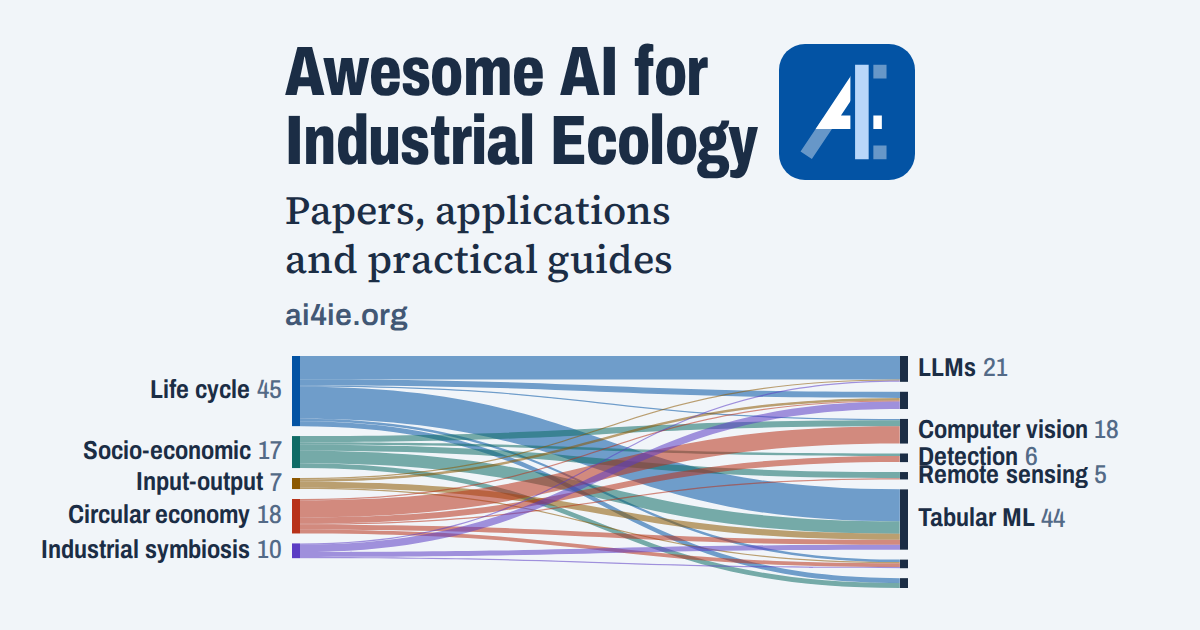
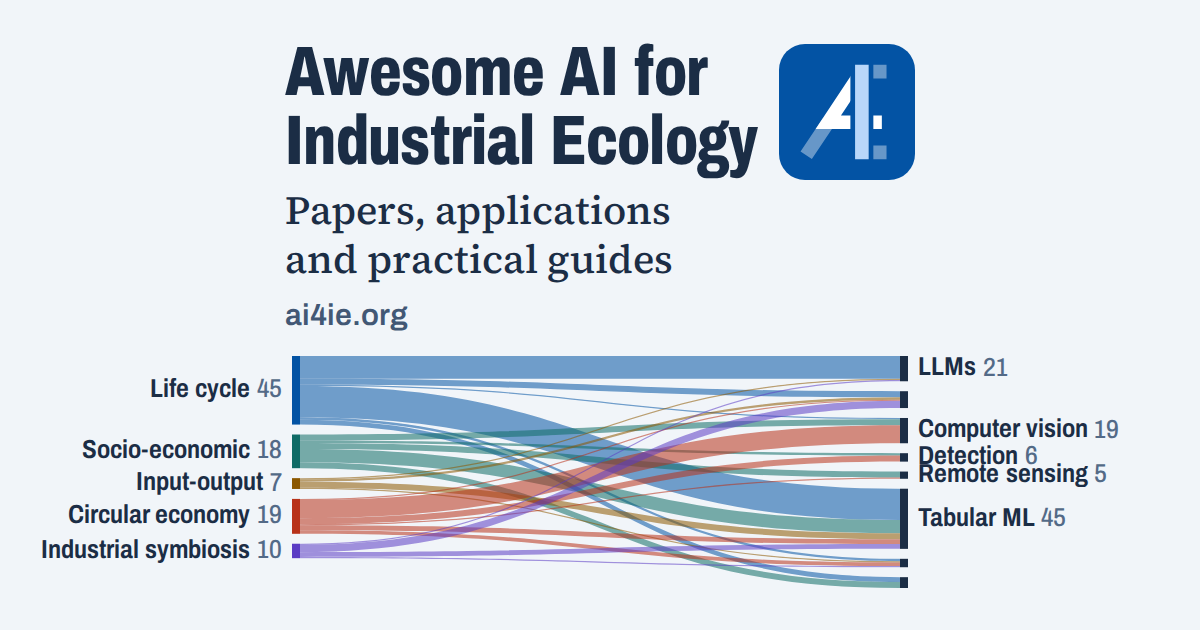
feat(home): fly the header wordmark's letters into the title
The favicon tile after the home title read as an awkward add-on, and its ink-in
competed with the Fig. 1 pour. The title spells out AI4IE, so the entrance now
uses that.

- On the first home visit in a tab session, the header wordmark's A, I, 4, I
  and E fly onto the title's "AI", "for" and the initials of "Industrial
  Ecology", measured live from both, so desktop and phone match. The rest of
  the title fades in around them and the header mark fades back, in 1.2 s.
- An inline script after the title hides its parts before the first paint and
  shows them after 2 s if the hand-off script never runs. Reduced motion, a
  repeat visit or blocked storage shows the title at once.
- Removed the title's end-mark tile, its stroke animation and hover replay.
  The colophon keeps the mark.
- The social card renders with reduced motion; og.png carries the current
  counts.

diff --git a/src/styles/custom.css b/src/styles/custom.css
@@ -582,98 +582,17 @@ starlight-menu-button button {
   font-size: clamp(2.5rem, 1.5rem + 3.4vw, 4.5rem);
   margin: 0;
 }
-/* Cap height of the narrow Archivo title, sitting on its baseline. */
-.cover-endmark {
+/* The title's acronym hand-off (script in Hero.astro). A key is an inline block, so it can
+   move; its word stays on one line. */
+.cover .ac-word {
+  white-space: nowrap;
+}
+.cover .ac {
   display: inline-block;
-  width: 0.7em;
-  height: 0.7em;
-  vertical-align: baseline;
+  transform-origin: left center;
 }
-/* On load the tile lands, then its strokes ink in as a draftsman would draw the mark:
-   the 4, its stem (the I), and last the faded A leg and E arms. It ends with the Fig. 1
-   bands, as part of the one entrance. The paths follow public/favicon.svg's order:
-   faded strokes, the 4, the stem. Pointing at the tile replays the inking, faster and
-   over a ghost of the mark (script in Hero.astro). The dash gap is three path lengths,
-   so an undrawn stroke leaves no sliver at either end. */
-.endmark-ghost {
+.ac-run .cover :is(.ac, .ac-rest) {
   opacity: 0;
-}
-@media (prefers-reduced-motion: no-preference) {
-  .cover-endmark rect {
-    transform-box: fill-box;
-    transform-origin: center;
-    animation: endmark-land 0.3s cubic-bezier(0.16, 1, 0.3, 1) 0.1s backwards;
-  }
-  .endmark-ink path {
-    stroke-dasharray: 1 3;
-    animation: endmark-ink 0.3s cubic-bezier(0.65, 0, 0.35, 1) backwards;
-  }
-  .endmark-ink path:nth-child(2) {
-    animation-delay: 0.25s;
-  }
-  .endmark-ink path:nth-child(3) {
-    animation-delay: 0.45s;
-  }
-  .endmark-ink path:nth-child(1) {
-    animation-delay: 0.6s;
-  }
-  .reink-a .endmark-ink path {
-    animation-name: endmark-ink-a;
-  }
-  .reink-b .endmark-ink path {
-    animation-name: endmark-ink-b;
-  }
-  .cover-endmark:is(.reink-a, .reink-b) .endmark-ink path {
-    animation-duration: 0.2s;
-  }
-  .cover-endmark:is(.reink-a, .reink-b) .endmark-ink path:nth-child(2) {
-    animation-delay: 0s;
-  }
-  .cover-endmark:is(.reink-a, .reink-b) .endmark-ink path:nth-child(3) {
-    animation-delay: 0.15s;
-  }
-  .cover-endmark:is(.reink-a, .reink-b) .endmark-ink path:nth-child(1) {
-    animation-delay: 0.3s;
-  }
-  .reink-a .endmark-ghost {
-    animation: endmark-ghost-a 0.5s linear;
-  }
-  .reink-b .endmark-ghost {
-    animation: endmark-ghost-b 0.5s linear;
-  }
-}
-@keyframes endmark-land {
-  from {
-    opacity: 0;
-    transform: scale(0.8);
-  }
-}
-@keyframes endmark-ink {
-  from {
-    stroke-dashoffset: 1.01;
-  }
-}
-@keyframes endmark-ink-a {
-  from {
-    stroke-dashoffset: 1.01;
-  }
-}
-@keyframes endmark-ink-b {
-  from {
-    stroke-dashoffset: 1.01;
-  }
-}
-@keyframes endmark-ghost-a {
-  from,
-  80% {
-    opacity: 0.35;
-  }
-}
-@keyframes endmark-ghost-b {
-  from,
-  80% {
-    opacity: 0.35;
-  }
 }
 .cover-tagline {
   margin: 0;

diff --git a/DESIGN.md b/DESIGN.md
@@ -66,10 +66,7 @@ The mark is an Æ with a 4 drawn inside it ([`Glyph.astro`](src/components/Glyph
 sits outside the six inks: on the page it is neutral ink, with the 4 at full strength and
 the A's leg and the E's arms faded to grey. The stem is the I of AI4IE, so it takes a lighter
 tint; the large mark (the 404 plate, the card) also cuts a hairline gap beside it. Cobalt is ink 1, so the mark is cobalt only off
-the page (the favicon and the README), with one exception: the home title ends on the
-favicon tile as its end mark, at cap height, hidden from screen readers. On load its strokes
-ink in as the mark is drawn: the 4, its stem, then the faded A leg and E arms. Pointing at
-or tapping the tile inks them in again.
+the page (the favicon and the README).
 
 - **Header, home cover, colophon, and 404.** The top bar shows the unfolded `AI4IE` drafting
   wordmark, which collapses to the Æ-4 mark on hover/focus and on narrow screens. The home
@@ -92,8 +89,8 @@ or tapping the tile inks them in again.
   Pointing at a band lifts it and fades the rest. Pointing at, focusing or tapping a node
   lights its bands and names its reach in a live readout line under the plate; on touch the
   first tap lights a node and the second opens its list. On load the bands draw
-  along their curves, field by field, while the title's end mark inks in.
-  Reduced motion skips both.
+  along their curves, field by field.
+  Reduced motion skips both this and the title hand-off.
 - **Numbered tables.** A bold "Table N.N" title above, a source line below. Numbering and
   markup are in [CONTRIBUTING.md](CONTRIBUTING.md#look-and-feel).
 - **Application entries.** On the map page, each field's section has its synthesis paragraph,
